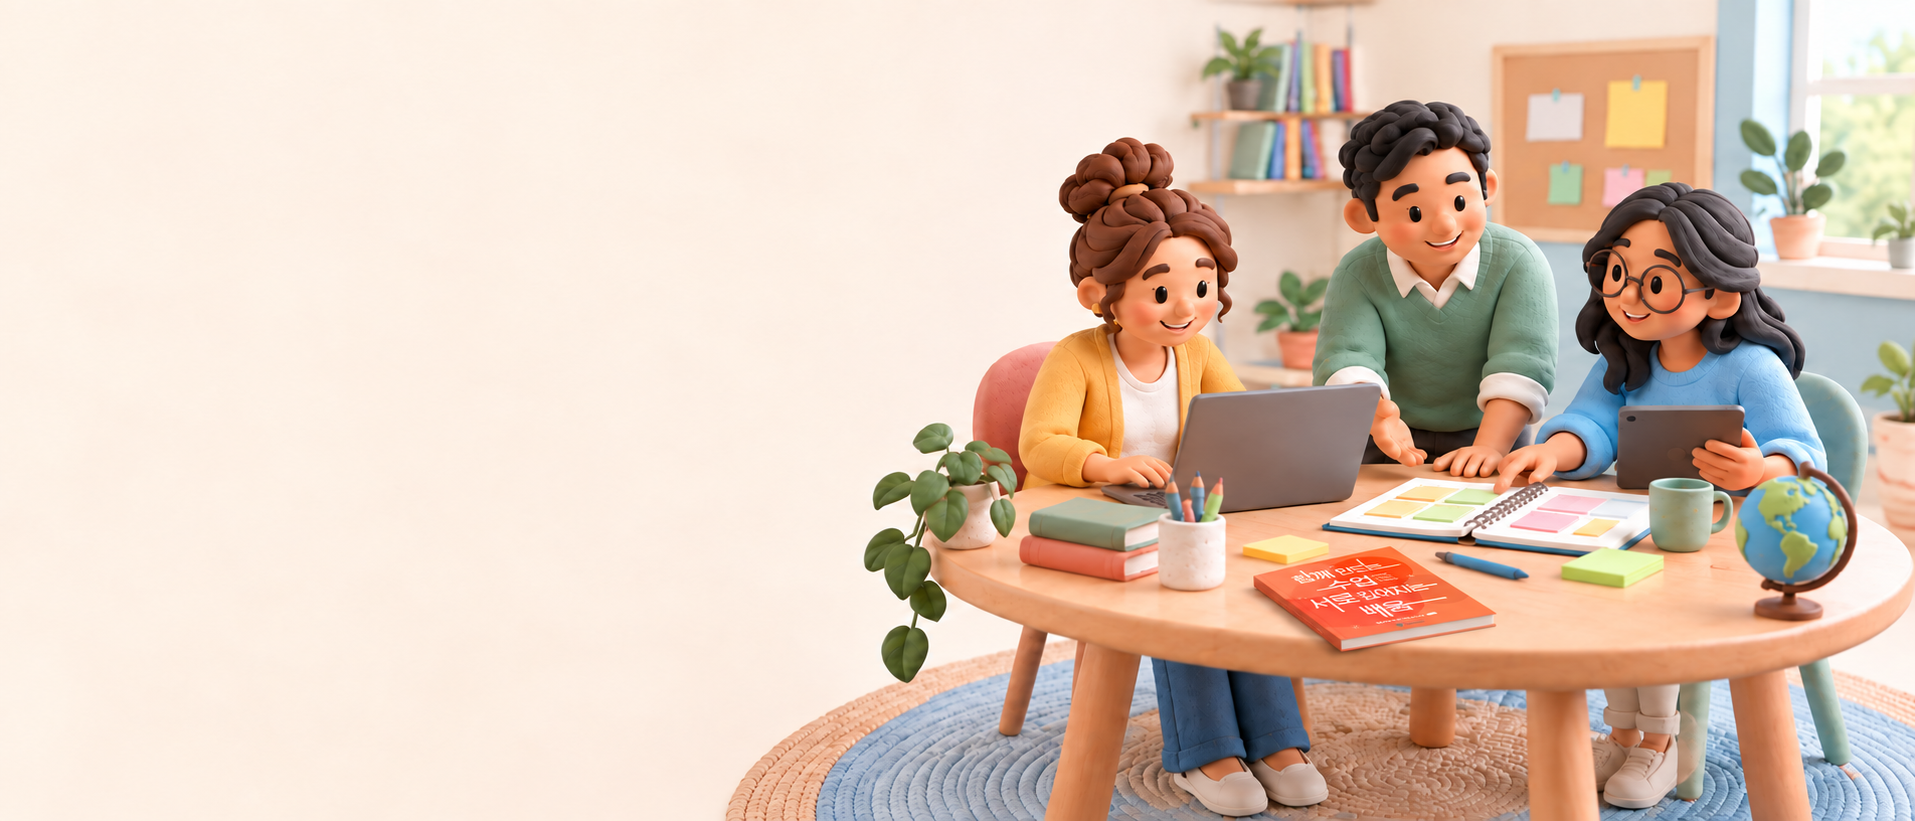
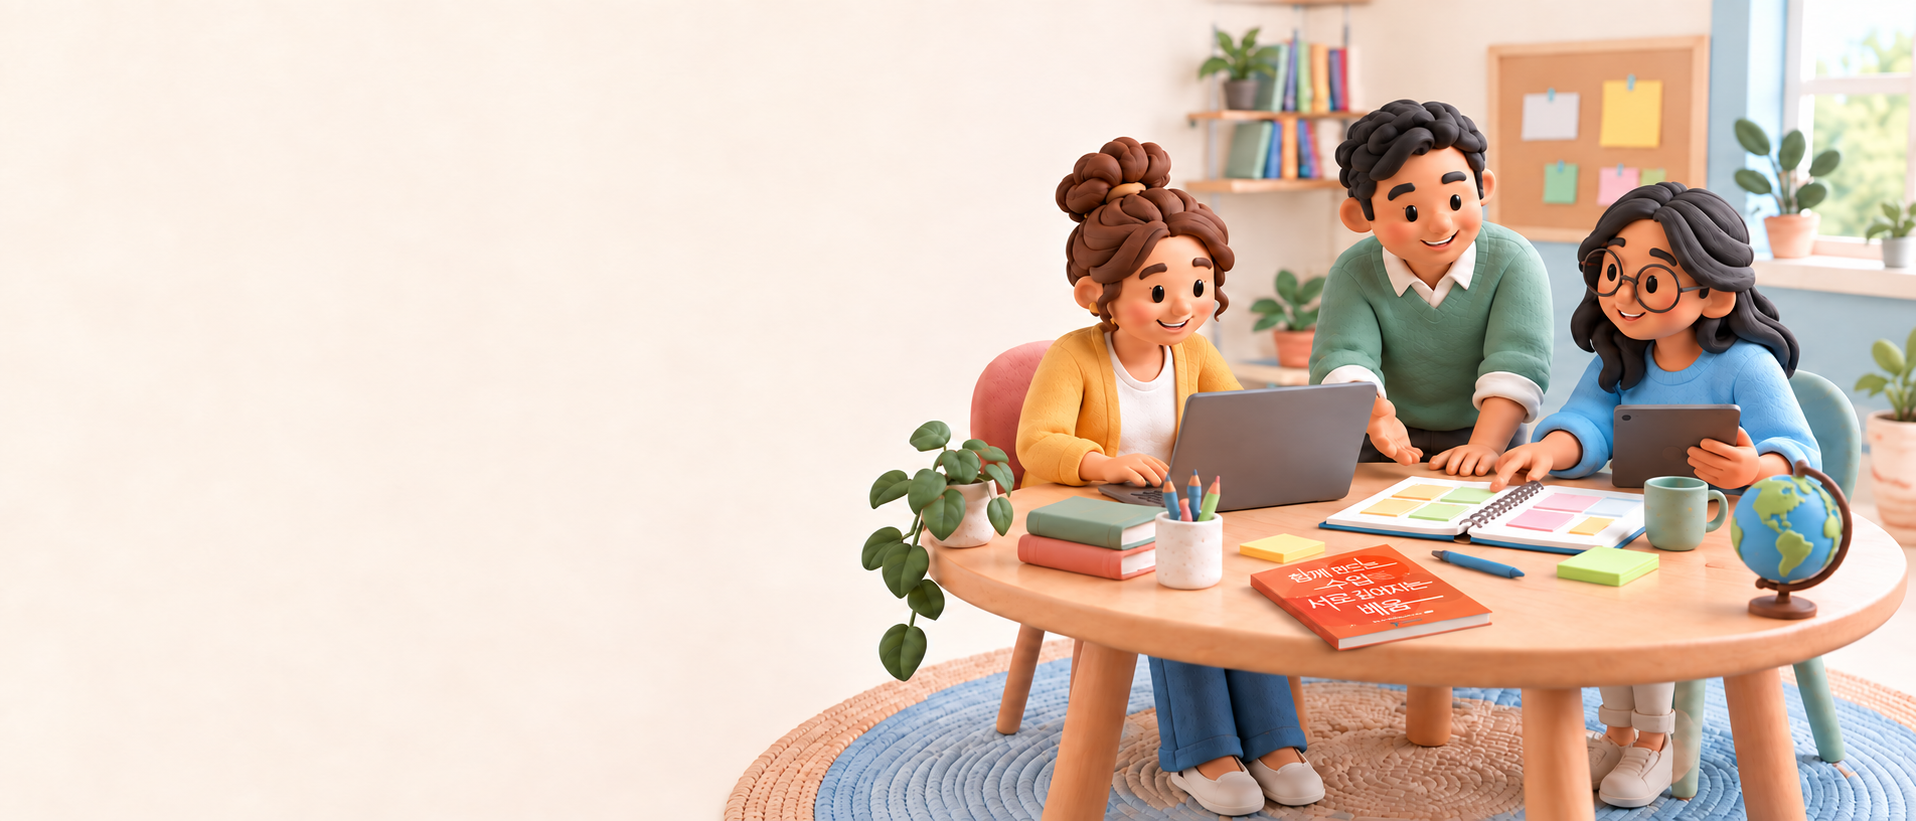
hero 배경 이미지 교체

Changed region(s): [[0.3697, 0.0, 1.0, 1.0], [0.8319, 0.7004, 0.8627, 0.7308]]

diff --git a/index.html b/index.html
@@ -69,7 +69,7 @@
       aspect-ratio: 21 / 9;
       min-height: max(100vh, 640px);
       background-color: var(--bg-cream);
-      background-image: url("assets/hero.png");
+      background-image: url("assets/hero.png?v=2");
       background-repeat: no-repeat;
       background-position: center center;
       background-size: cover;
